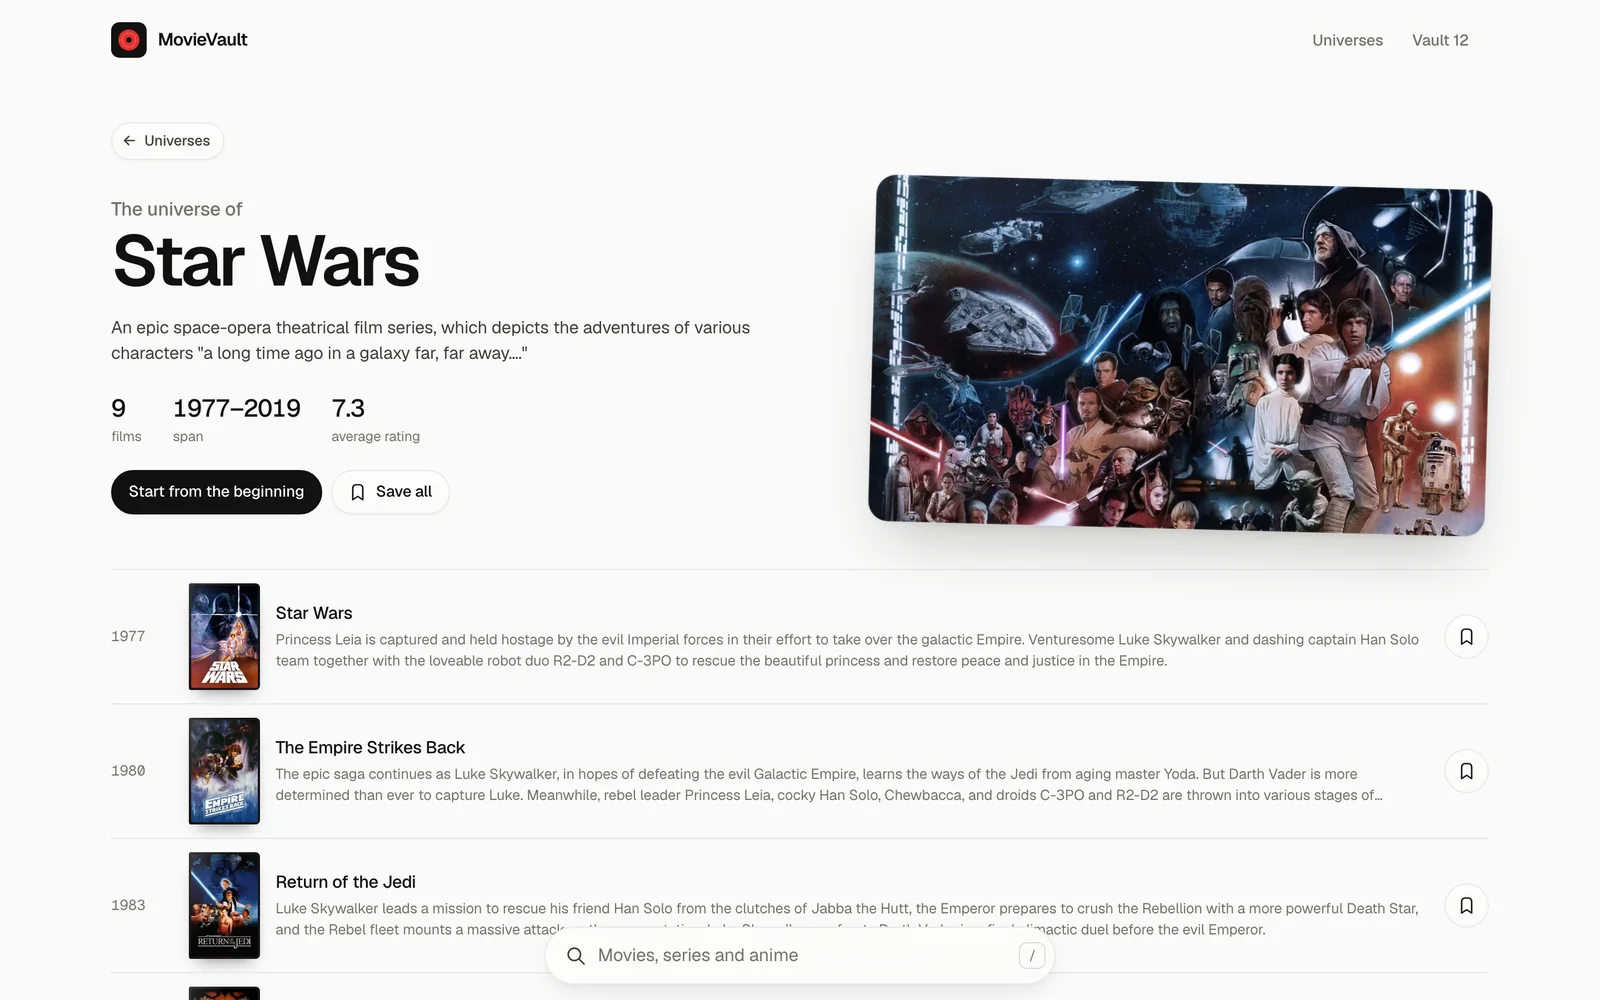
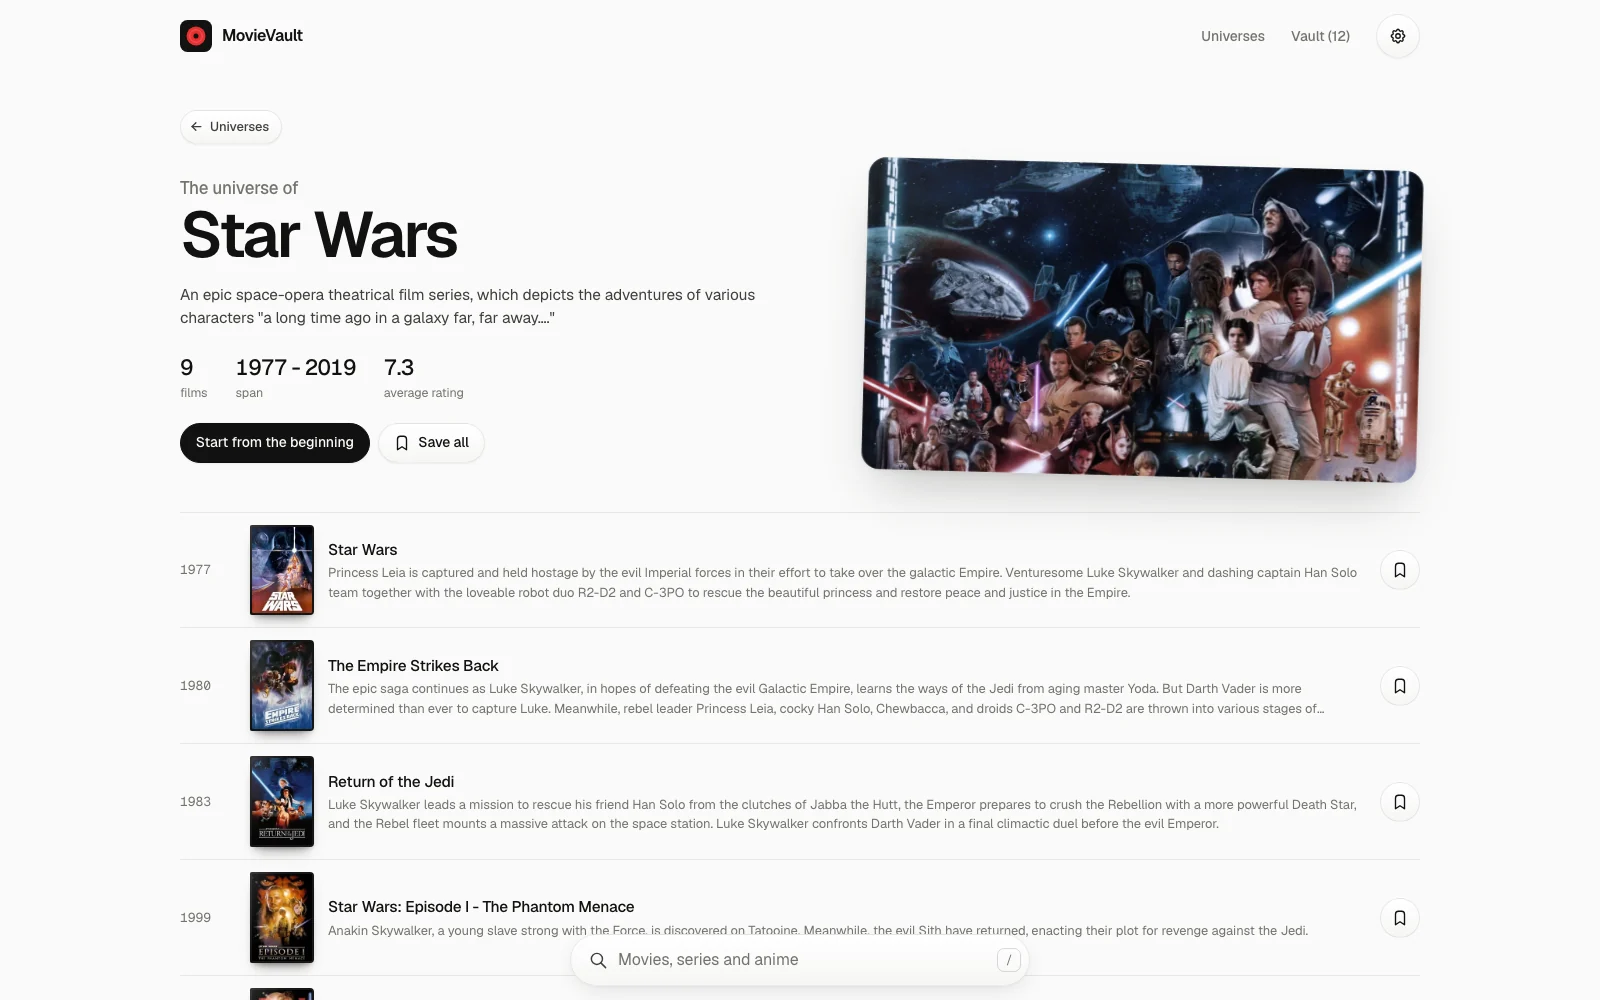
docs: refresh screenshots for the settings sheet and iPhone frames, and document settings in the README

diff --git a/README.md b/README.md
@@ -26,7 +26,8 @@ Find where any film, series or anime is streaming, follow whole universes in rel
 - **Rich detail pages.** Local age ratings, runtime, tagline, genres, cast, crew, budget and box office, the official trailer and recommendations.
 - **The vault.** Save anything with a bookmark, filter it by type, sort it, and undo any removal.
 - **Honest API status.** The app watches the requests it really makes. Failed requests retry with backoff, and a small pill only appears when TMDB is unreachable, you're offline or the key is wrong, with a retry button.
-- **Light and dark.** Follows the system, or pick one in the services sheet.
+- **Settings.** A gear in the header opens appearance and the live TMDB connection status, and shows a dot when the connection is down.
+- **Light and dark.** Follows the system, or pick one in settings.
 
 ## Design
 
@@ -104,7 +105,7 @@ No animation or data-fetching libraries: the carousel, sheets, toasts, request c
 
 ```
 src/
-  components/  reel, cases, sheets, toasts, status pill, shelves, cards
+  components/  reel, cases, services and settings sheets, toasts, status pill, shelves, cards
   lib/         TMDB client and catalogue, stores, hooks, universes
   pages/       home, search, title, vault, universes, universe, not found
   index.css    design tokens, themes and every component style
@@ -134,7 +135,7 @@ src/
 ![Jurassic Park with its case open, streaming services and its universe](./docs/screenshots/MovieVault-2.webp)
 
 ### Connected titles
-![Resident Evil with the previous and next film and the whole franchise in release order](./docs/screenshots/MovieVault-5.webp)
+![Resident Evil: Extinction with the previous and next film and the whole franchise in release order](./docs/screenshots/MovieVault-5.webp)
 
 ### Universes
 ![Every universe as a grid of backdrops](./docs/screenshots/MovieVault-8.webp)
@@ -144,11 +145,16 @@ src/
 ### Vault
 ![Saved titles with where each one streams](./docs/screenshots/MovieVault-7.webp)
 
+### Services and settings
+![Picking streaming services in the services sheet](./docs/screenshots/MovieVault-10.webp)
+
+![The settings sheet with appearance and the TMDB connection](./docs/screenshots/MovieVault-11.webp)
+
 ### Dark mode
 ![The reel in dark mode](./docs/screenshots/MovieVault-9.webp)
 
 ### On a phone
-![Home, an anime detail page and anime search on a phone](./docs/screenshots/MovieVault-4.webp)
+![Home, an anime detail page and anime search on iPhones](./docs/screenshots/MovieVault-4.webp)
 
 </div>
 
